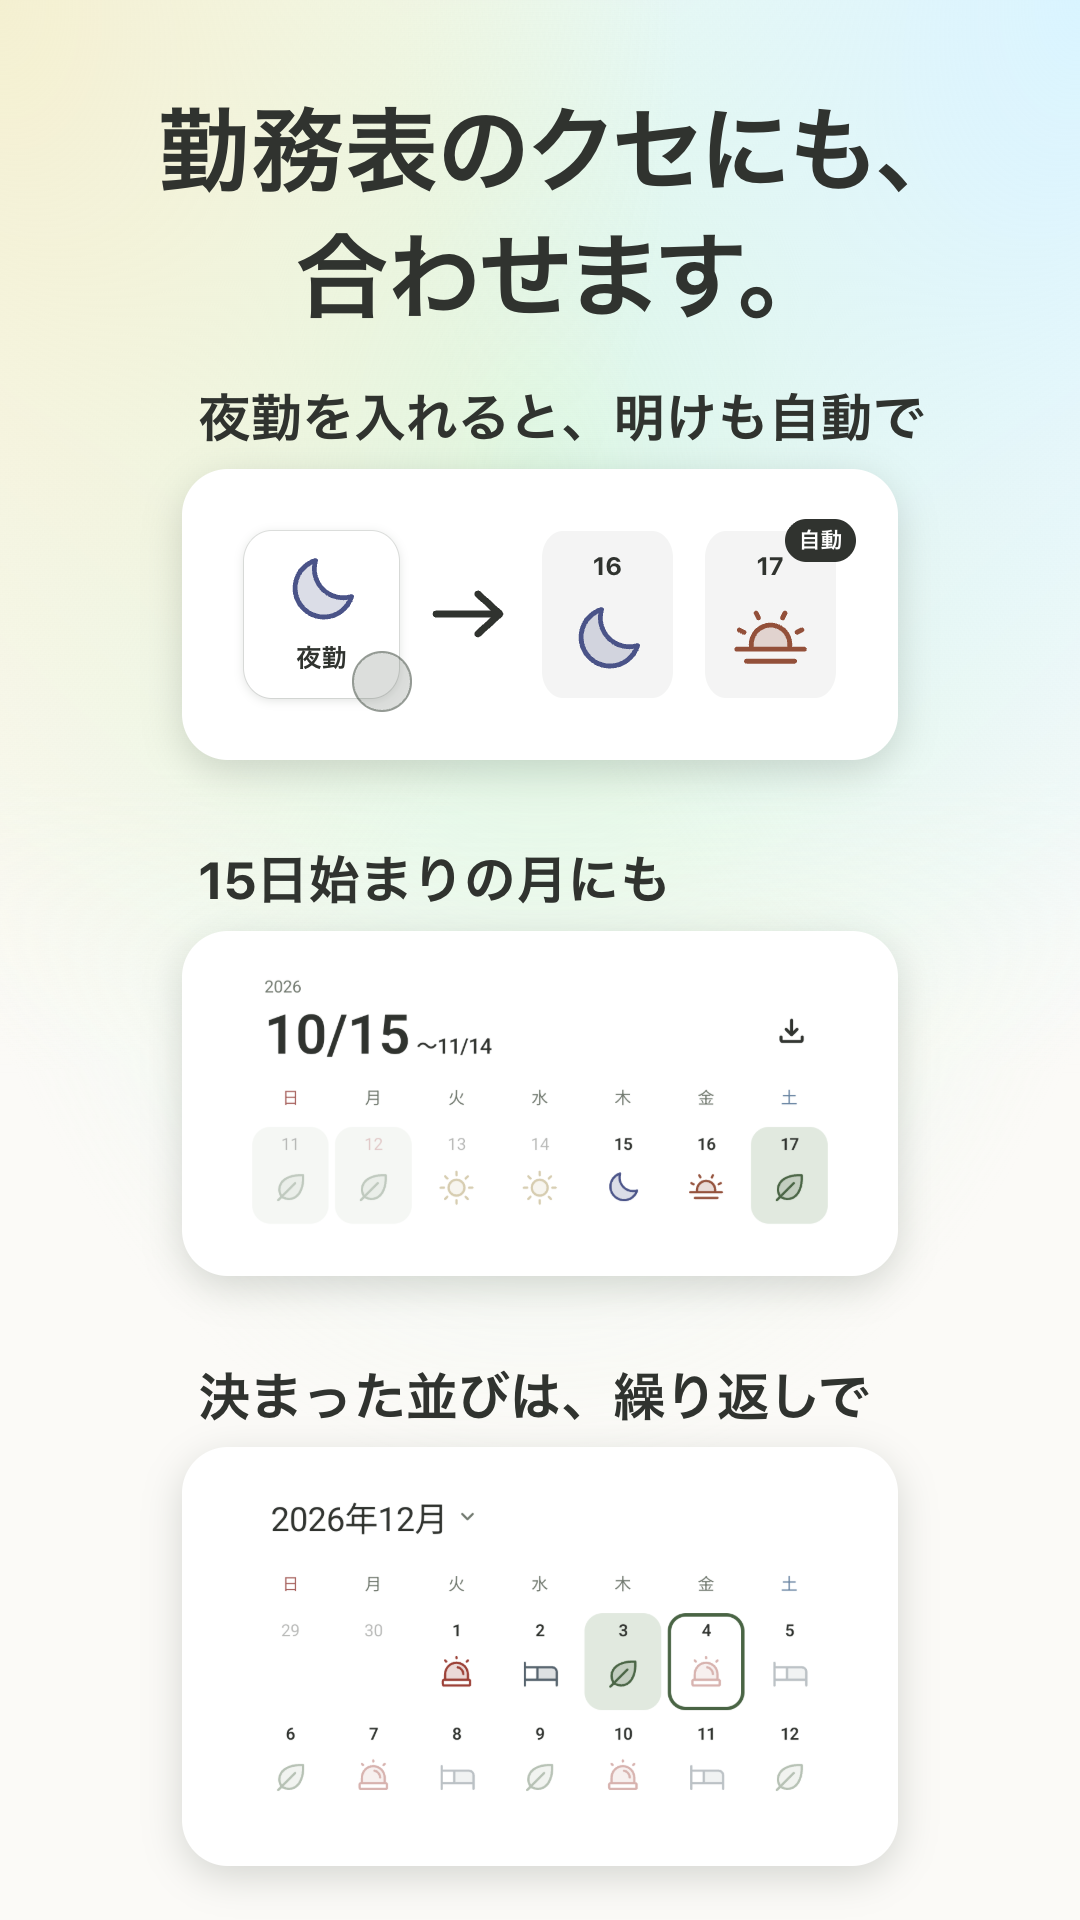
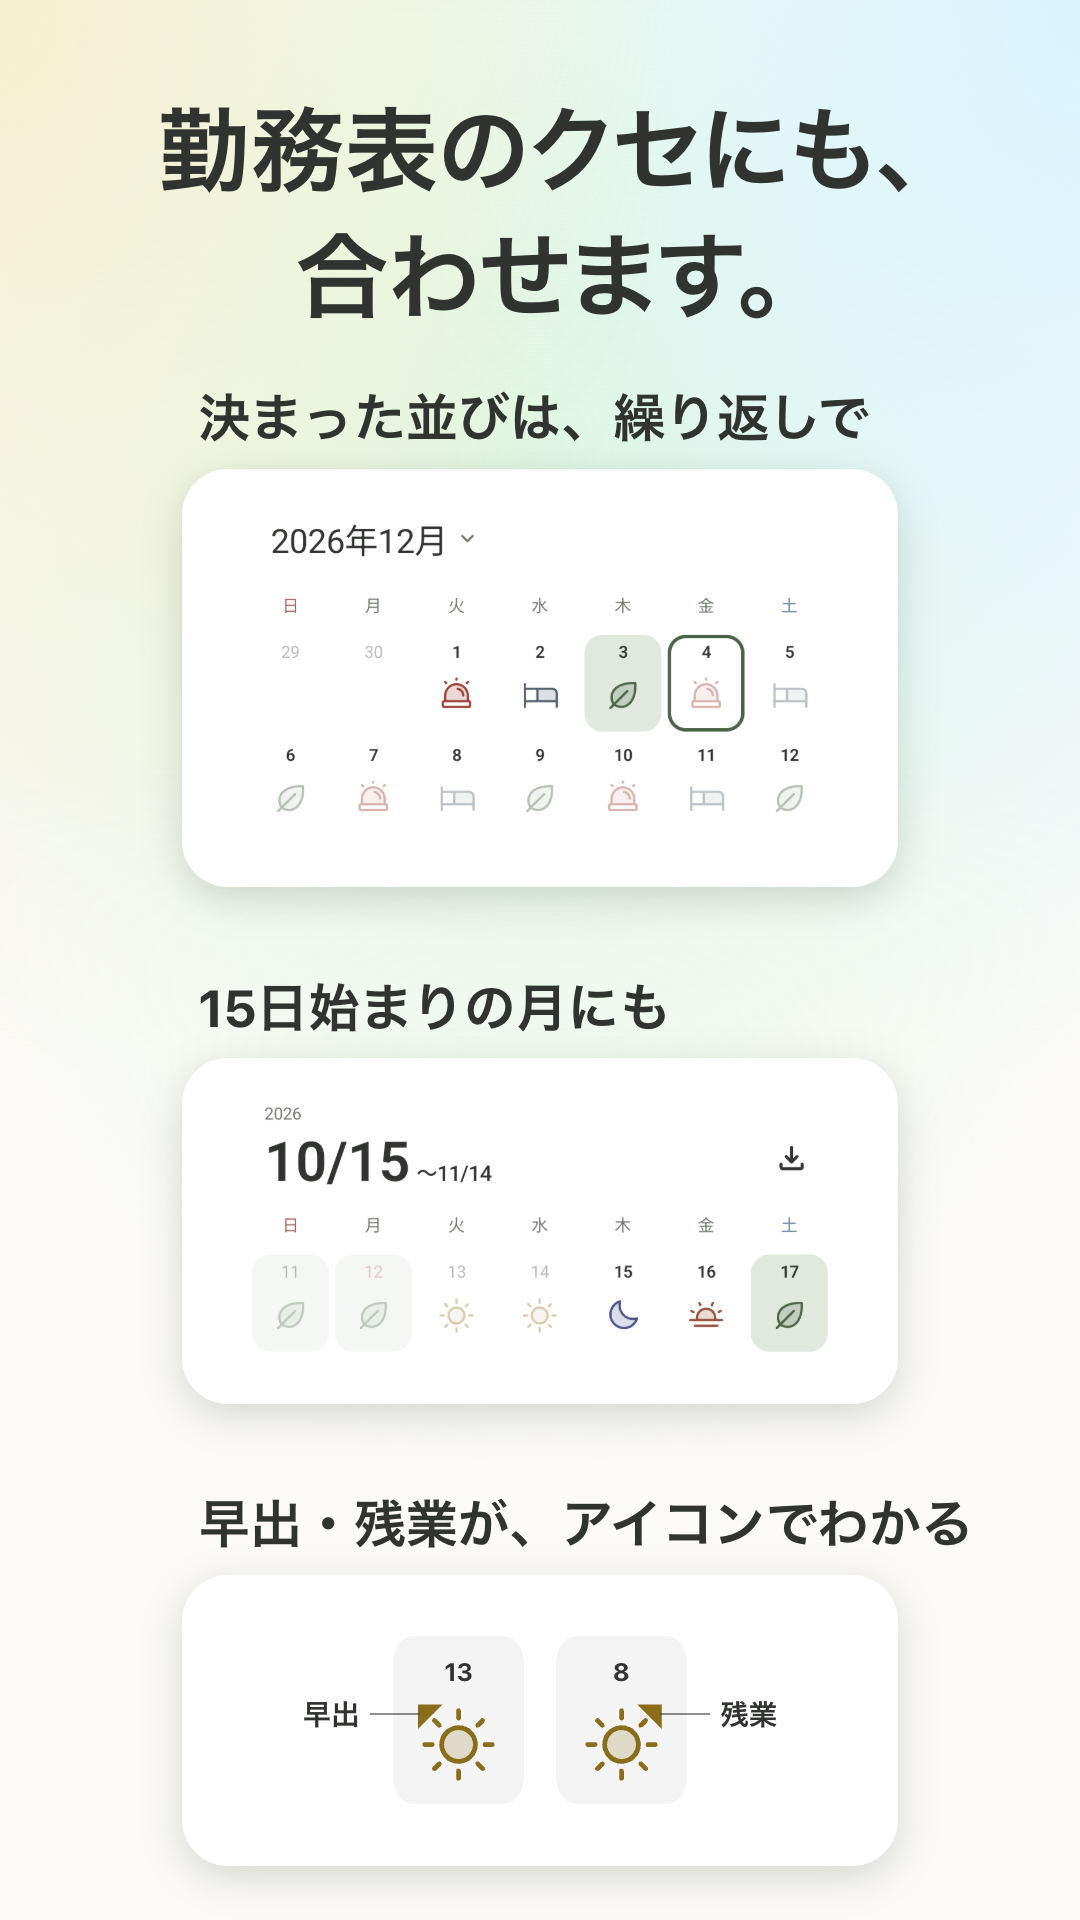
Store screenshots: the six tiles grouped by their headlines, their parts named for what they are (#806)
勤務表のクセにも、合わせます。 holds how a roster is (the repeating order, the
period from the 15th, 早出 and 残業 on a mark); 小さな気づかいも。 what the app
does (明け after 夜勤, the reminder, a group's end).

diff --git a/packages/prototype/src/lib/store-shots.ts b/packages/prototype/src/lib/store-shots.ts
@@ -107,9 +107,10 @@ export type WallPlace = {
 // one, and いまのシフト, its ring drawn while a shift is on, together
 // where they show whole; the themes' shot sets the month in 墨 and
 // in letters side by side, the app as it starts being in the others; the
-// details' shot sets three parts of screens one over the other, each for
-// those whose roster has that way of its own, and the cares' shot three
-// more, each a small thing the app looks after.
+// details' shot sets three tiles one over the other, each a way a roster
+// has of its own, and the cares' shot three more, each a thing the app
+// does for the person. A tile's part of a screen is named for what it is,
+// not for the shot it is in.
 export const STORE_SHOTS = [
   {
     headline: ["勤務表を見ながら、", "ポチポチ。"],
@@ -190,21 +191,19 @@ export const STORE_SHOTS = [
     name: "details",
     tiles: [
       {
-        pieces: [
-          { kind: "key", shift: "night" },
-          { kind: "then" },
-          { date: 16, kind: "day", shift: "night" },
-          { date: 17, kind: "day", shift: "after", tag: "自動" },
-        ],
-        words: "夜勤を入れると、明けも自動で",
+        raw: "tile-repeat.png",
+        words: "決まった並びは、繰り返しで",
       },
       {
-        raw: "07-details-period.png",
+        raw: "tile-period.png",
         words: "15日始まりの月にも",
       },
       {
-        raw: "07-details-repeat.png",
-        words: "決まった並びは、繰り返しで",
+        pieces: [
+          { date: 13, early: true, kind: "day", says: "早出", shift: "day" },
+          { date: 8, kind: "day", late: true, says: "残業", shift: "day" },
+        ],
+        words: "早出・残業が、アイコンでわかる",
       },
     ],
   },
@@ -215,17 +214,19 @@ export const STORE_SHOTS = [
     tiles: [
       {
         pieces: [
-          { date: 13, early: true, kind: "day", says: "早出", shift: "day" },
-          { date: 8, kind: "day", late: true, says: "残業", shift: "day" },
+          { kind: "key", shift: "night" },
+          { kind: "then" },
+          { date: 16, kind: "day", shift: "night" },
+          { date: 17, kind: "day", shift: "after", tag: "自動" },
         ],
-        words: "早出・残業が、アイコンでわかる",
+        words: "夜勤を入れると、明けも自動で",
       },
       {
-        raw: "08-cares-reminder.png",
+        raw: "tile-reminder.png",
         words: "前の晩、明日のシフトをお知らせ",
       },
       {
-        raw: "08-cares-group-end.png",
+        raw: "tile-group-end.png",
         words: "グループに、終了日をつけられる",
       },
     ],

diff --git a/apps/android/app/src/androidTest/kotlin/app/pochical/StoreScreenshots.kt b/apps/android/app/src/androidTest/kotlin/app/pochical/StoreScreenshots.kt
@@ -155,7 +155,7 @@ class StoreScreenshots {
     device.find(calendar)
     // The page's heading and the week its first day is in.
     val first = LocalDate.now().let { if (it.dayOfMonth < 15) it.minusMonths(1) else it }.withDayOfMonth(15)
-    photograph("07-details-period", top = topOf(By.descContains("日〜")), foot = topOf(dayOf(first.plusDays(7))))
+    photograph("tile-period", top = topOf(By.descContains("日〜")), foot = topOf(dayOf(first.plusDays(7))))
     pickPeriod("1日〜末日")
 
     photographWidgetStates("02-widgets", calendar)
@@ -184,7 +184,7 @@ class StoreScreenshots {
     startFixedCycle()
     // The month's name and its first two weeks, the cycle come round in them.
     photograph(
-      "07-details-repeat",
+      "tile-repeat",
       top = topOf(By.desc(Pattern.compile("\\d+年\\d+月"))),
       foot = topOf(dayOf(LocalDate.now().plusMonths(1).withDayOfMonth(1).plusDays(14))),
     )
@@ -196,7 +196,7 @@ class StoreScreenshots {
     makeGroupWithEnd()
     // The section グループ's rows and what is said under them, from under its name to the section after it.
     photograph(
-      "08-cares-group-end",
+      "tile-group-end",
       top = between(By.text("グループ"), By.text("忘年会")),
       foot = between(By.textStartsWith("グループ名とアイコンは"), By.text("このグループでのあなた")),
     )
@@ -211,7 +211,7 @@ class StoreScreenshots {
     device.tap(By.text("リマインド"), By.text("リマインドを追加"))
     device.tap(By.textStartsWith("前日"), By.text("リマインドを編集"))
     // The notification under its heading.
-    photograph("08-cares-reminder", top = topOf(By.textStartsWith("次の通知")), foot = device.find(By.descStartsWith("明日は")).visibleBounds.bottom)
+    photograph("tile-reminder", top = topOf(By.textStartsWith("次の通知")), foot = device.find(By.descStartsWith("明日は")).visibleBounds.bottom)
   }
 
   /**

diff --git a/apps/ios/Pochical/PochicalUITests/StoreScreenshotTests.swift b/apps/ios/Pochical/PochicalUITests/StoreScreenshotTests.swift
@@ -45,7 +45,7 @@ final class StoreScreenshotTests: XCTestCase {
     let banner = app.otherElements.matching(NSPredicate(format: "label BEGINSWITH '通知：'")).firstMatch
     XCTAssertTrue(banner.waitForExistence(timeout: 5), "the next notification is drawn")
     // The notification under its heading.
-    try snap("08-cares-reminder", from: heading.frame.minY, until: banner.frame.maxY)
+    try snap("tile-reminder", from: heading.frame.minY, until: banner.frame.maxY)
   }
 
   @MainActor
@@ -126,7 +126,7 @@ final class StoreScreenshotTests: XCTestCase {
       .matching(NSPredicate(format: "label CONTAINS '日〜'")).firstMatch
     XCTAssertTrue(heading.waitForExistence(timeout: 5), "the page is named by its days")
     try snap(
-      "07-details-period", from: heading.frame.minY,
+      "tile-period", from: heading.frame.minY,
       until: rowTop(first, after: 7))
     pick(period: "1日〜末日")
   }
@@ -242,7 +242,7 @@ final class StoreScreenshotTests: XCTestCase {
     let title = app.buttons.matching(NSPredicate(format: "label MATCHES '[0-9]+年[0-9]+月.*'"))
       .firstMatch
     try snap(
-      "07-details-repeat", from: title.frame.minY,
+      "tile-repeat", from: title.frame.minY,
       until: rowTop(DateComponents(year: today.year, month: today.month! + 1, day: 1), after: 14))
   }
 
@@ -272,7 +272,7 @@ final class StoreScreenshotTests: XCTestCase {
     let rows = app.collectionViews.firstMatch
     let after = rows.staticTexts["このグループでのあなた"]
     XCTAssertTrue(after.waitForExistence(timeout: 5), "the settings show")
-    try snap("08-cares-group-end", from: rows.staticTexts["グループ"].frame.maxY, until: after.frame.minY)
+    try snap("tile-group-end", from: rows.staticTexts["グループ"].frame.maxY, until: after.frame.minY)
   }
 
   /// Taps the button whose words hold `name`, a page down where the page

diff --git a/AGENTS.md b/AGENTS.md
@@ -14,7 +14,7 @@ Pochical is a monorepo: native SwiftUI (`apps/ios`) and Jetpack Compose (`apps/a
   - ライセンス's list of libraries is generated by each app's build, never checked in (spec/calendar.md, ライセンス): on iOS by LicenseList's build plugin from the resolved Swift packages' checkouts (`PLL_SOURCE_PACKAGES_PATH` names them when `-clonedSourcePackagesDirPath` moves them, as CI's `ios` job does), on Android by AboutLibraries' Gradle plugin into each variant's `res/raw/aboutlibraries.json`, with what the app carries besides its dependencies in `apps/android/app/aboutlibraries/libraries`.
   - Icons: the marks' paths from Phosphor via `pnpm --dir design icon:marks`; the iOS app icons and the widgets' `PeekingPoodle` via `pnpm --dir packages/prototype icon:ios`, and Android's launcher icon (its `mipmap` layers and the background color) and the Play listing's 512-pixel icon (`apps/android/app/src/main/ic_launcher-playstore.png`) and the widgets' `widget_poodle` via `icon:android`, both painting with `scripts/app-icon.ts` as the site icon's `icon:site` does.
   - try's installable app (`apps/try/public/app`): the icons, iOS's launch images and the web app manifest via `pnpm --dir apps/try icon:app` (`scripts/app-assets.ts`), and the manifest's screenshots, the screens `src/lib/app-screenshots.ts` names, via `image:screens`, which photographs the app on a dev server of its own as apps/design's `image:share` photographs the share image, both through `@pochical/prototype`'s `scripts/photograph.ts`. A change to that list runs both.
-  - The stores' pictures (`store/screenshots/<store>`, and Google Play's feature graphic, `store/feature-graphic.png`): the shots, their headlines and each store's size in `@pochical/prototype`'s `lib/store-shots.ts` → `ANDROID_SERIAL=emulator-<port> mise run store:screenshots`. It photographs the real apps' screens into `.build/store-screenshots/<store>`, under the same names on both platforms, each against a server it starts and `tools/store-screenshots/seed.ts` seeds with two groups made by one piece, the coworkers' and a group of friends, each person's photo one of the faces' drawings (`design/src/drawings`) (`store:shots:android`: `StoreScreenshots` on the running emulator `ANDROID_SERIAL` names, never a phone, the widgets drawn there by themselves from the app's own days; `store:shots:ios`: `StoreScreenshotTests` in a simulator of its own, `pochical-store`, the widgets put on its Home Screen), then draws each on the site's sky under its headline (`store:images`: apps/design's `image:store`, which photographs `/_render/store-shot` as `image:share` does the share image, for each store whose screens are there). The seed runs beside the capture: it makes the groups, writes their invitations, and writes the coworkers' chat only once the person photographed has joined, so the chat says every joining above its lines, and more lines than a screen holds keep them out of the picture, among them two photographs sent at once (`tools/store-screenshots/photos`, whose README names where each is from; a JPEG put there under the same name is sent in its place); the capture reads the chat to its latest line, opens it again, and photographs it there. The status bar says 9:41 in every picture, whenever the run is, and the chat's lines the time they were written. Every look is set through the app's own settings: a raw file or folder named `-sumi` is in black and white (テーマ 墨, シフトの色 ワントーン, シフトの見た目 線, 休みの見せ方 印だけ, 色をつける日 off), one named `-letters` has the shifts as letters (シフトの見た目 文字, テーマ ソーダ), the rest as the app starts. The wall of widgets is placed by hand (the shot's `tiles`: which widget, in which look, in which cell of `WALL`), from every kind at each size it has for a Home Screen, those that can be set to someone set to a person and to the group too, and those today's shift changes on each of the sample's (a day off, 日勤, 夜勤, 明け: the capture enters it for today in ポチポチ入力, photographs them, and puts today and tomorrow back), in the app's look and in 墨: medium and large widgets carry it, small ones are its accents. 次の休み counting to a day off, 次の休み on a day off and いまのシフト are marked `whole` and stand together where the eye lands, whole in each store's picture and in the frame the site's top page shows of the wall; no picture is beside itself. いまのシフト draws its ring only while a shift is on, so near its end a run enters one of the sample's shifts that is on at that hour and photographs that widget again. The friends' group is joined as まい with ひよこ picked for a face, in place of the drawing a new person is given at random, and the coworkers' as 佐藤, there alone. The details' shot and the cares' are three tiles each, a tile a card of the picture's with room inside it, on the ground of what it holds: a part of a screen its platform's UI test cuts at whole rows, from the top of one of the screen's own pieces to the foot of another, or pieces the page draws from the app's own marks, larger than a screen has them, with words and lines of the picture's that say what happens (the shot's `pieces`). Each tile holds only what makes its point. The details': 夜勤's key pressed and the two days it fills, the second the app's doing, drawn; the first week of a page of a シフトの期間 from the 15th under its heading, set in 設定 and put back, and two weeks of 繰り返しを直す on a fixed cycle, a run's last step but one as it changes the job, to the ready-made 当番・非番・休み from next month's 1st, 当番 and 休み then named 当務 and 週休. The cares': a day of 早出 and one of 残業 with their marks' corners named, drawn; リマインド's reminder of the evening before, the next notification as its page draws it, before anything is changed; and グループの設定's rows of a group with an end, 忘年会, made in グループを作る with the day 終了日をつける offers, a run's very last step as it leaves a group. A change to that page or to a headline runs `store:images` alone, the screens still in `.build`; a change to an app's screens runs its `store:shots:*` and `store:images`.
+  - The stores' pictures (`store/screenshots/<store>`, and Google Play's feature graphic, `store/feature-graphic.png`): the shots, their headlines and each store's size in `@pochical/prototype`'s `lib/store-shots.ts` → `ANDROID_SERIAL=emulator-<port> mise run store:screenshots`. It photographs the real apps' screens into `.build/store-screenshots/<store>`, under the same names on both platforms, each against a server it starts and `tools/store-screenshots/seed.ts` seeds with two groups made by one piece, the coworkers' and a group of friends, each person's photo one of the faces' drawings (`design/src/drawings`) (`store:shots:android`: `StoreScreenshots` on the running emulator `ANDROID_SERIAL` names, never a phone, the widgets drawn there by themselves from the app's own days; `store:shots:ios`: `StoreScreenshotTests` in a simulator of its own, `pochical-store`, the widgets put on its Home Screen), then draws each on the site's sky under its headline (`store:images`: apps/design's `image:store`, which photographs `/_render/store-shot` as `image:share` does the share image, for each store whose screens are there). The seed runs beside the capture: it makes the groups, writes their invitations, and writes the coworkers' chat only once the person photographed has joined, so the chat says every joining above its lines, and more lines than a screen holds keep them out of the picture, among them two photographs sent at once (`tools/store-screenshots/photos`, whose README names where each is from; a JPEG put there under the same name is sent in its place); the capture reads the chat to its latest line, opens it again, and photographs it there. The status bar says 9:41 in every picture, whenever the run is, and the chat's lines the time they were written. Every look is set through the app's own settings: a raw file or folder named `-sumi` is in black and white (テーマ 墨, シフトの色 ワントーン, シフトの見た目 線, 休みの見せ方 印だけ, 色をつける日 off), one named `-letters` has the shifts as letters (シフトの見た目 文字, テーマ ソーダ), the rest as the app starts. The wall of widgets is placed by hand (the shot's `tiles`: which widget, in which look, in which cell of `WALL`), from every kind at each size it has for a Home Screen, those that can be set to someone set to a person and to the group too, and those today's shift changes on each of the sample's (a day off, 日勤, 夜勤, 明け: the capture enters it for today in ポチポチ入力, photographs them, and puts today and tomorrow back), in the app's look and in 墨: medium and large widgets carry it, small ones are its accents. 次の休み counting to a day off, 次の休み on a day off and いまのシフト are marked `whole` and stand together where the eye lands, whole in each store's picture and in the frame the site's top page shows of the wall; no picture is beside itself. いまのシフト draws its ring only while a shift is on, so near its end a run enters one of the sample's shifts that is on at that hour and photographs that widget again. The friends' group is joined as まい with ひよこ picked for a face, in place of the drawing a new person is given at random, and the coworkers' as 佐藤, there alone. The details' shot and the cares' are three tiles each, a tile a card of the picture's with room inside it, on the ground of what it holds: a part of a screen its platform's UI test cuts at whole rows, from the top of one of the screen's own pieces to the foot of another, or pieces the page draws from the app's own marks, larger than a screen has them, with words and lines of the picture's that say what happens (the shot's `pieces`). Each tile holds only what makes its point. A part's file is named for what it is (`tile-<what>.png`), not for the shot it is in. The details', how a roster itself is: two weeks of 繰り返しを直す on a fixed cycle, a run's last step but one as it changes the job, to the ready-made 当番・非番・休み from next month's 1st, 当番 and 休み then named 当務 and 週休; the first week of a page of a シフトの期間 from the 15th under its heading, set in 設定 and put back; and a day of 早出 and one of 残業 with their marks' corners named, drawn. The cares', what the app does for the person: 夜勤's key pressed and the two days it fills, the second the app's doing, drawn; リマインド's reminder of the evening before, the next notification as its page draws it, before anything is changed; and グループの設定's rows of a group with an end, 忘年会, made in グループを作る with the day 終了日をつける offers, a run's very last step as it leaves a group. A change to that page or to a headline runs `store:images` alone, the screens still in `.build`; a change to an app's screens runs its `store:shots:*` and `store:images`.
   - Workers' types: each Worker's `wrangler.jsonc` and the wrangler in `pnpm-lock.yaml`, with the workerd it pins → `mise run gen:worker-types`, which runs every workspace's `cf-typegen` (into `worker-configuration.d.ts` in `apps/server`, `apps/admin` and `apps/web`). A wrangler bump regenerates them too; CI runs `mise run worker-types:check`. A Worker with a `cf-typegen` and no secrets still declares `"secrets": { "required": [] }`, so its types never come from a computer's `.dev.vars` or `.env`.
   - SQL schemas are Drizzle and their migrations are generated, never written: D1 `apps/server/src/db/schema.ts` (`mise run db:generate -- --name <what>`; better-auth's tables via `mise run auth:schema` first), the Group DO `group-do-schema.ts` (`mise run group-do:generate`), the User DO `user-do-schema.ts` (`mise run user-do:generate`). CI runs `mise run db:check`.
 - The stores' listings are in `store/` (`store/README.md`): the texts of the App Store and Google Play, and the answers to their forms (`declarations.md`), entered into App Store Connect and Play Console by hand. `apps/design`'s tests hold each text to its store's limit; an answer changes in the PR that changes what the app does.
